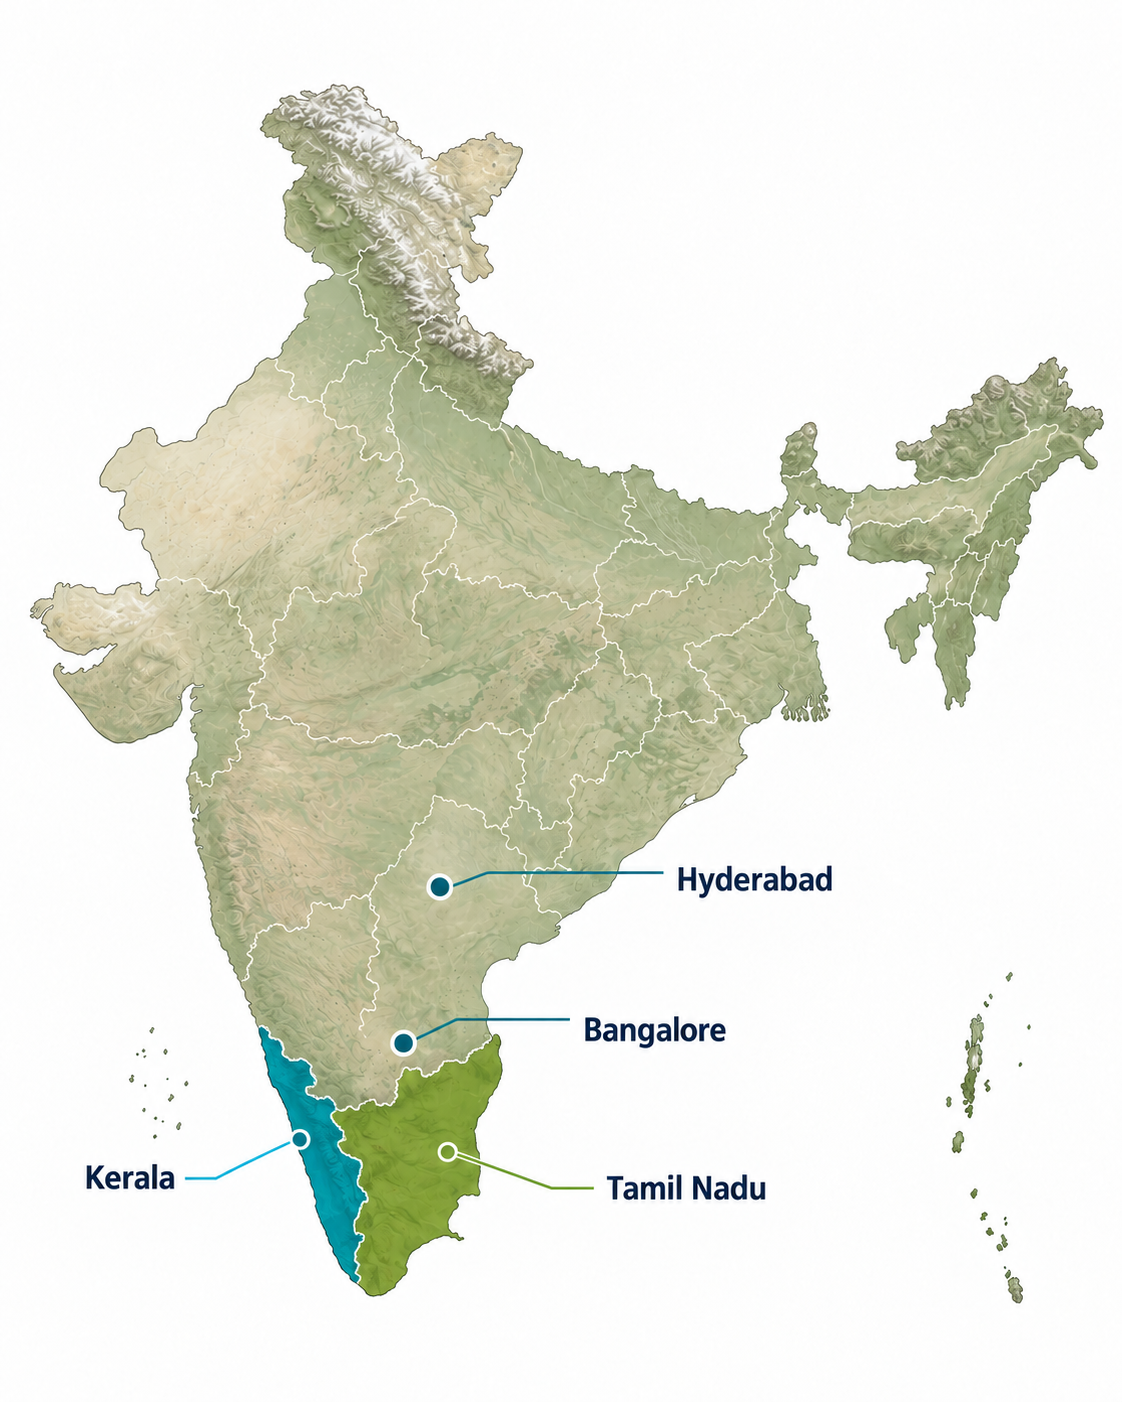
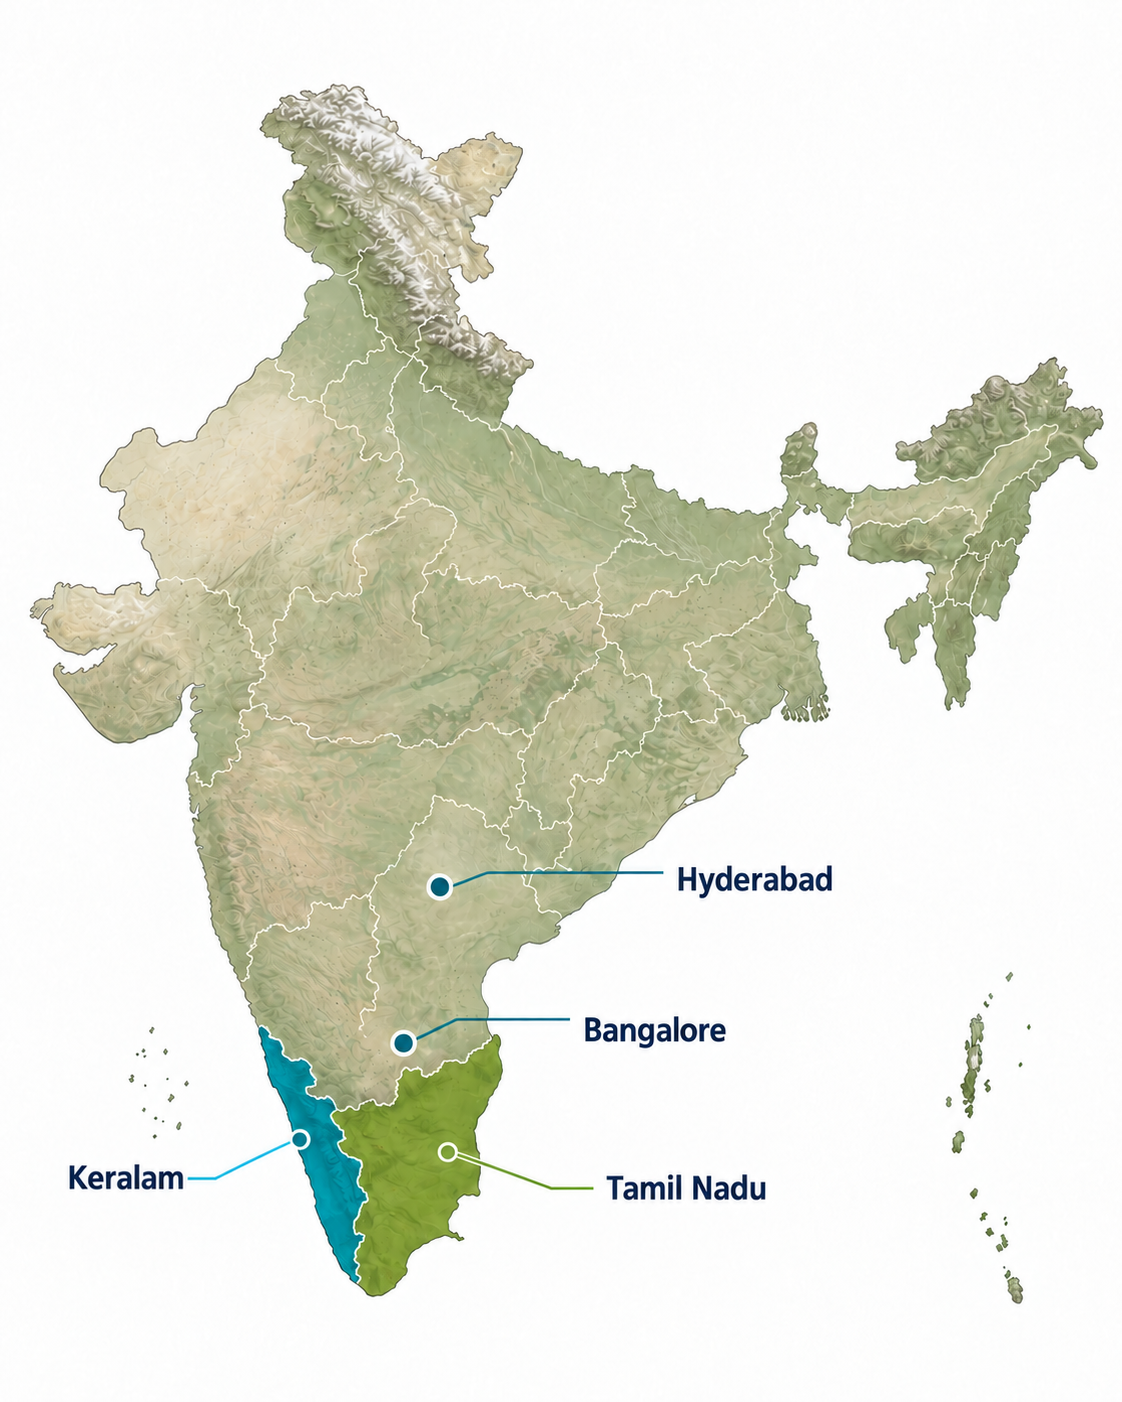
fix: map

diff --git a/src/components/landing/india-map-graphic.tsx b/src/components/landing/india-map-graphic.tsx
@@ -4,7 +4,7 @@ export function IndiaMapGraphic() {
   return (
     <div className="relative w-full aspect-[4/5] overflow-hidden select-none bg-white">
       <Image
-        src="/images/india-map-southern-coverage-v2.png"
+        src="/images/india-map-southern-coverage-keralam.png"
         alt="Map of India highlighting the entire states of Keralam in teal and Tamil Nadu in green, with Bangalore and Hyderabad marked"
         fill
         sizes="(max-width: 768px) 100vw, 500px"
